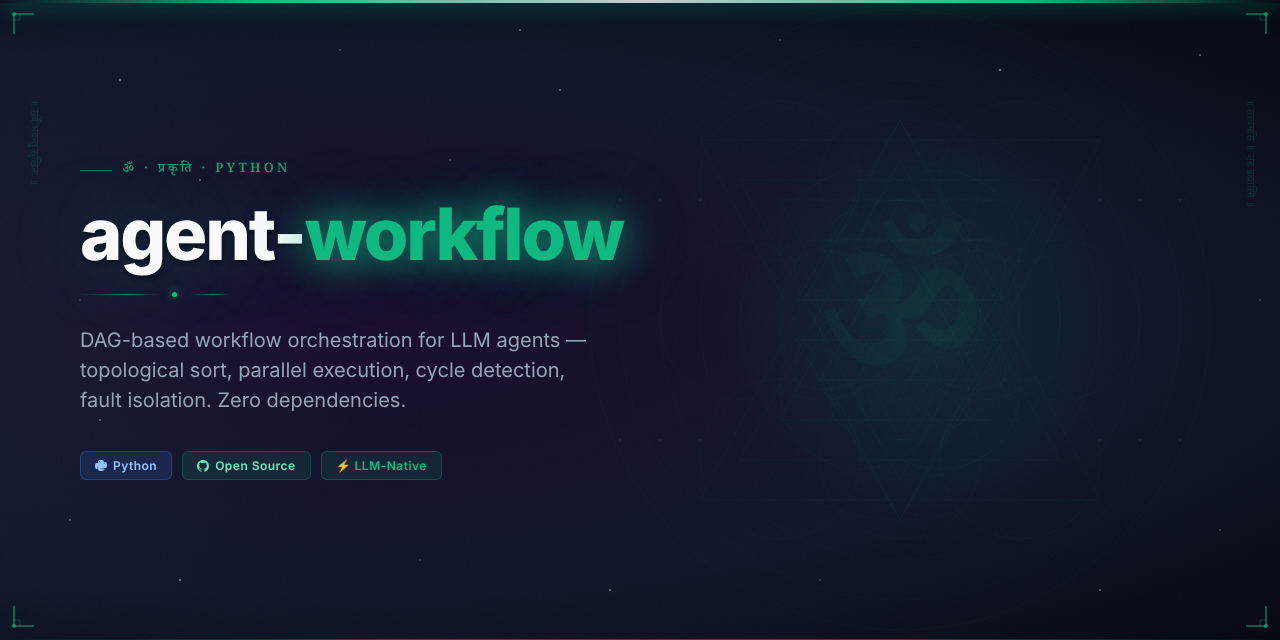
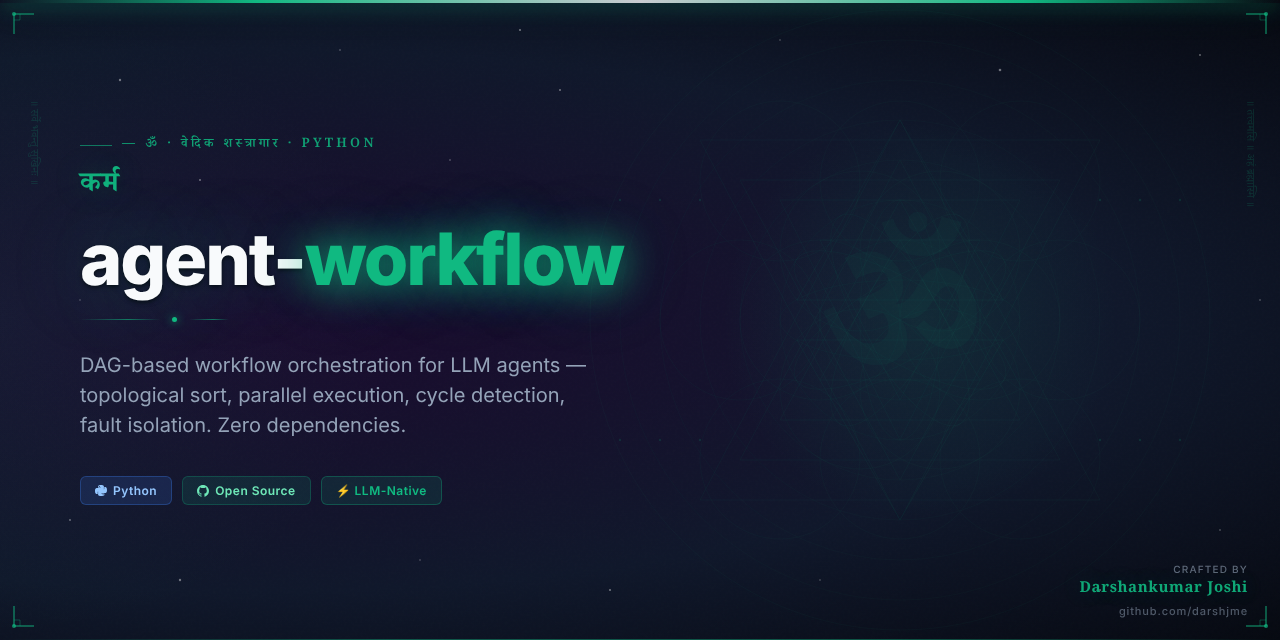
feat: add Vedic Arsenal hero image and updated README
Part of darshjme/arsenal — 100 production-grade Python libraries for LLM agents.
Vedic branding: ancient philosophy meets modern AI engineering.

diff --git a/README.md b/README.md
@@ -1,10 +1,12 @@
 <div align="center">
 
-<img src="assets/agent-workflow-hero.png" alt="agent-workflow — Vedic Arsenal" width="100%" />
+<img src="assets/agent-workflow-hero.png" alt="agent-workflow — Vedic Arsenal by Darshankumar Joshi" width="100%" />
 
 # 🌿 agent-workflow
 
-### *कर्म* — Karma — the sacred workflow of action
+<h3><em>कर्म</em></h3>
+
+> *Karma — the sacred workflow of action*
 
 **DAG-based workflow orchestration for LLM agents — topological sort, parallel execution, cycle detection, fault isolation. Zero dependencies.**
 
@@ -39,6 +41,19 @@ Or clone directly:
 git clone https://github.com/darshjme/agent-workflow.git
 cd agent-workflow
 pip install -e .
+```
+
+## How It Works
+
+```mermaid
+flowchart LR
+    A[Input] --> B[agent-workflow]
+    B --> C{Process}
+    C -- Success --> D[Output]
+    C -- Error --> E[Handle / Retry]
+    E --> B
+    style B fill:#6b21a8,color:#fff
+    note["Workflow — Zero Dependencies"]
 ```
 
 ## Quick Start
@@ -90,7 +105,7 @@ MIT — use freely, build freely.
 
 <div align="center">
 
-**Built with 🌿 by [Darshankumar Joshi](https://github.com/darshjme)**
+**Built with 🌿 by [Darshankumar Joshi](https://github.com/darshjme)** · [@thedarshanjoshi](https://twitter.com/thedarshanjoshi)
 
 *"कर्मण्येवाधिकारस्ते मा फलेषु कदाचन"*
 *Your right is to action alone, never to the fruits thereof.*
